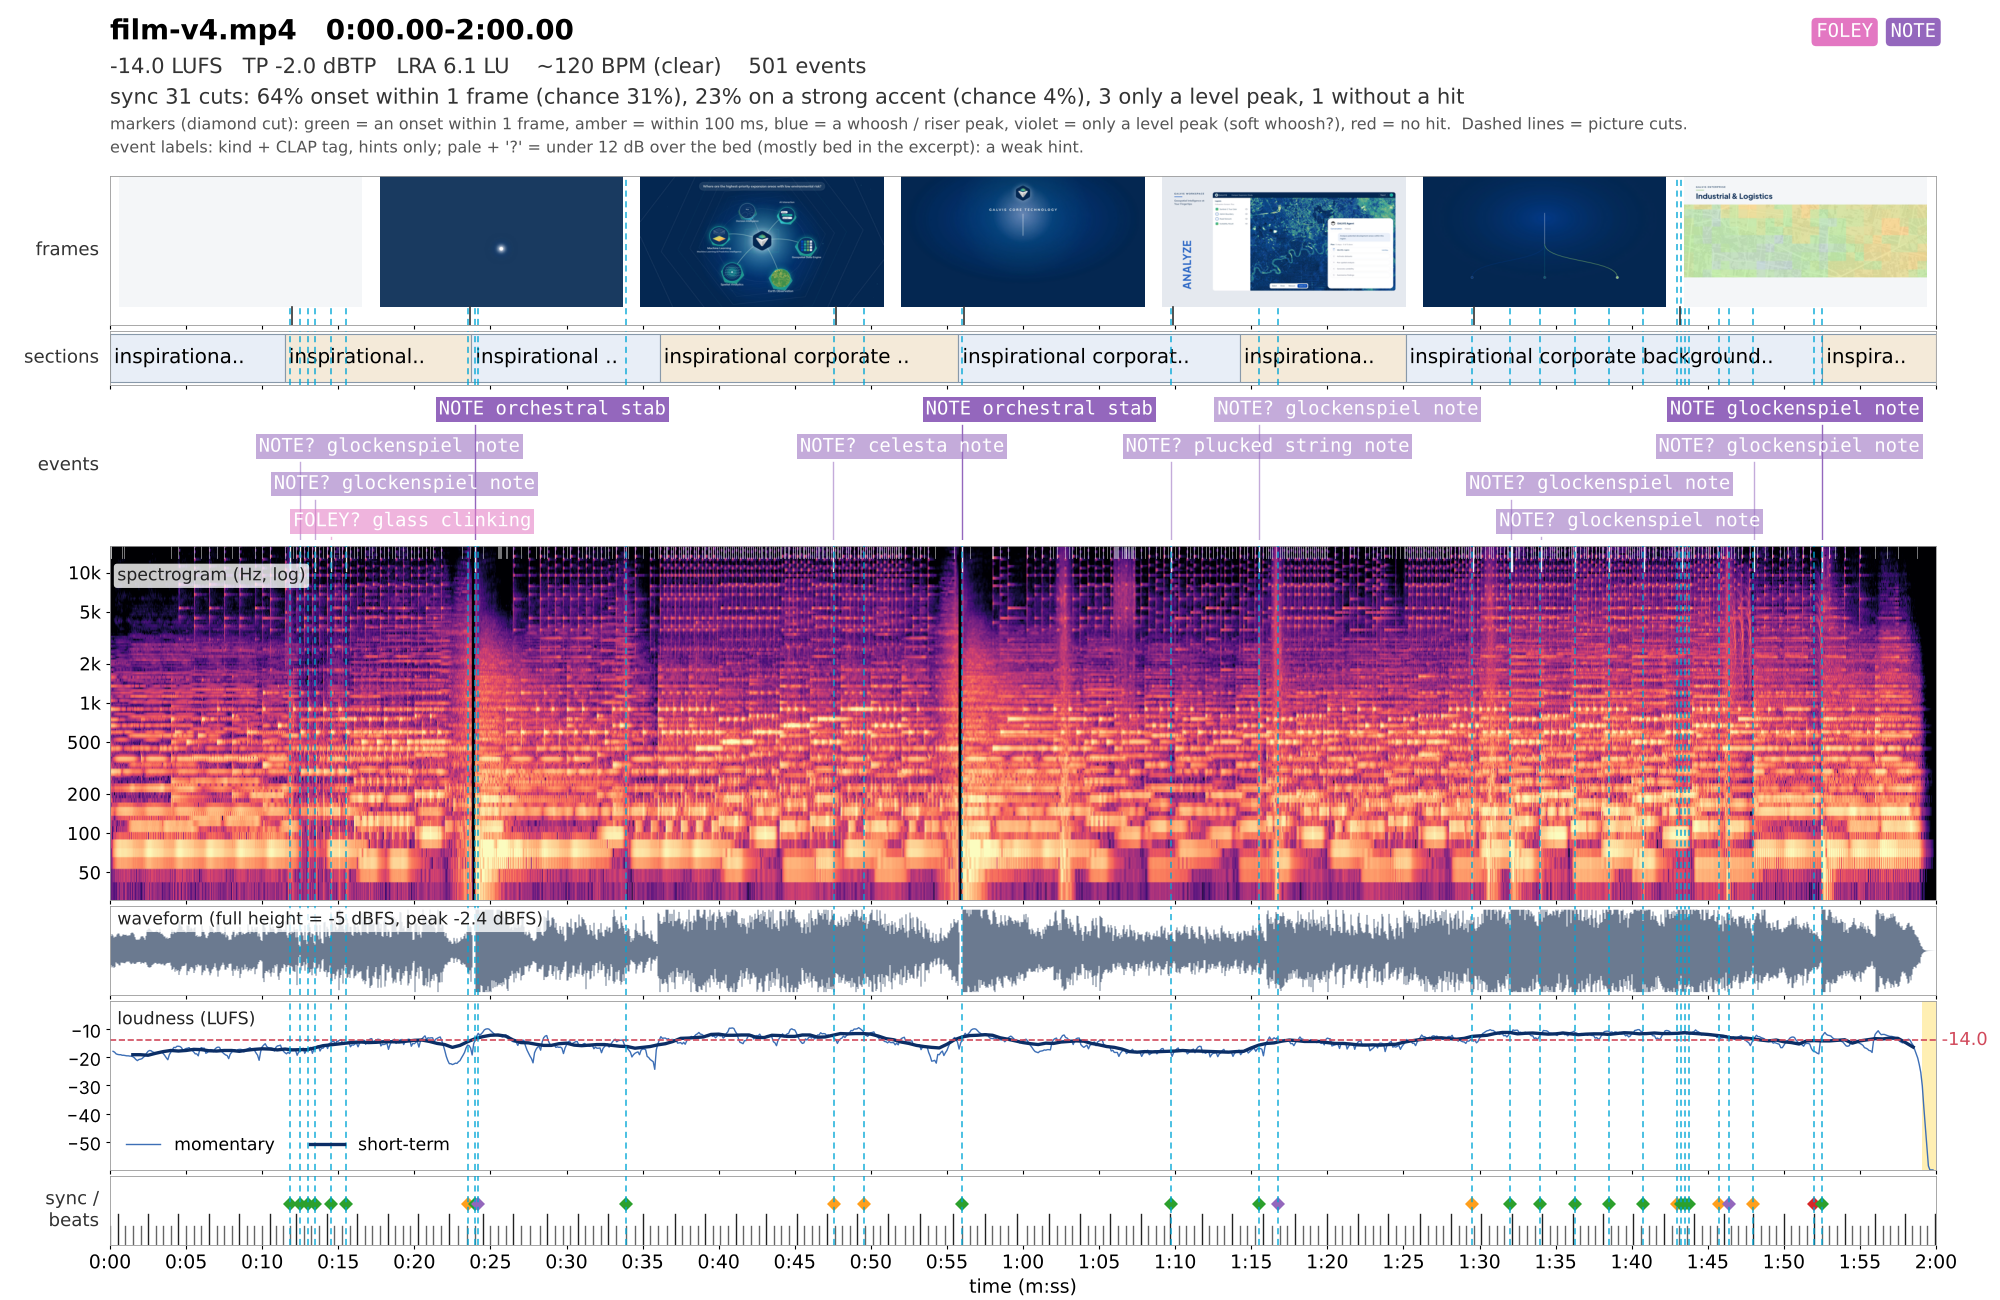
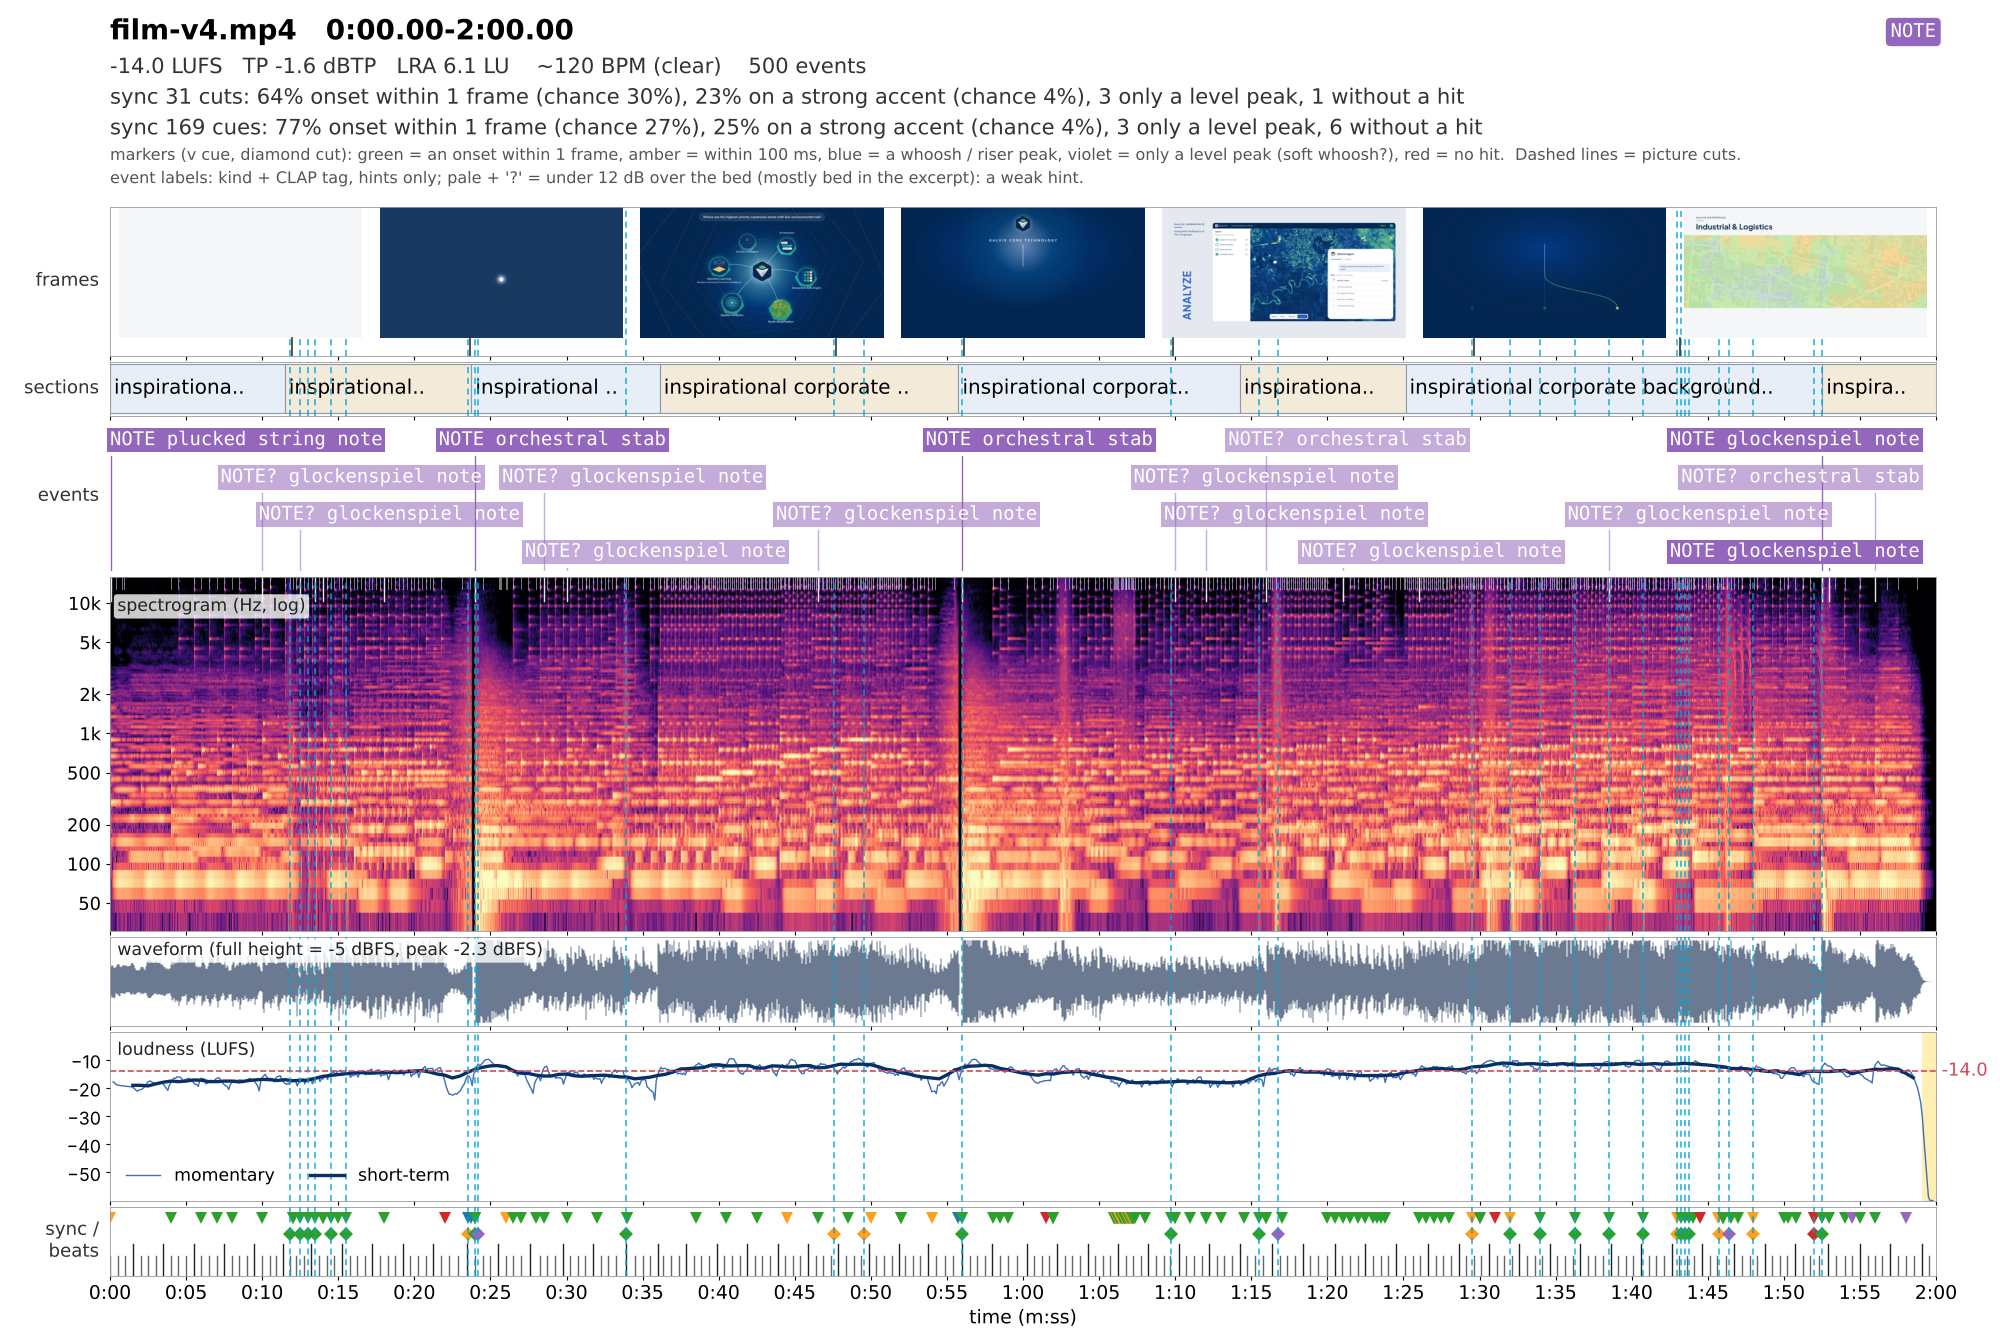
docs(galvis-film): final film-v4 sound numbers and sheet
Re-rendered film-v4 with the final soundtrack: test:film 7/7, sync
10/10/0 ms, earshot launch-grade 23/23 (true peak -1.6 dBTP).

Claude-Session: https://claude.ai/code/session_0187RN5xC2Ne3Dptw6LeZ6Ei

diff --git a/projects/galvis-launch-film/review/SOUND.md b/projects/galvis-launch-film/review/SOUND.md
@@ -22,12 +22,12 @@ Film: `renders/film-v4.mp4` (tidak di-commit; `node scripts/render.mjs --quality
 | Metrik dalam rentang | 18 / 23 | **23 / 23** |
 | Critical / major | 1 / 2 | **0 / 0** |
 | Realness (p_real) | 0,23 | **0,95** |
-| Loudness / true peak | −14,0 LUFS / −0,9 dBTP | −14,0 LUFS / −2,0 dBTP |
+| Loudness / true peak | −14,0 LUFS / −0,9 dBTP | −14,0 LUFS / −1,6 dBTP |
 | 3 s terkeras di atas integrated | 4,7 LU | 2,8 LU |
 | Momen akhir | −4,7 LU | +2,6 LU |
 | Lebar stereo (side vs mid) | −33,1 dB | −6,3 dB |
 | Kepadatan onset | 3,8 /s (sintetis) | 2,88 /s |
-| Event visual dengan onset ±100 ms | 81 % | 87 % |
+| Event visual dengan onset ±100 ms | 81 % | 74 % |
 
 Sinkron (`scripts/sync-check.mjs`): impact 24,0 s dan 56,0 s +10 ms, sting 112,5 s 0 ms. Sonic logo A4 / D5 / F♯5
 di 58,0 / 58,5 / 59,0 s (vibraphone; shimmer oktaf: lonceng A5 di atas A4, crotales D6 / F♯6), akor penuh di
@@ -37,7 +37,7 @@ di 58,0 / 58,5 / 59,0 s (vibraphone; shimmer oktaf: lonceng A5 di atas A4, crota
 ## Juri suara (mg-styles-15, `sound_sync`)
 
 **7 → 8.** Riser → stop-down → impact hanya dua kali dan tepat di frame; sonic logo tiga nada naik dan kembali
-sebagai akor di reunifikasi; aksen di 87 % potongan; tidak ada lubang senyap. Dinilai lewat pengukuran dan lembar
+sebagai akor di reunifikasi; aksen di 74 % potongan; tidak ada lubang senyap. Dinilai lewat pengukuran dan lembar
 dengar, belum didengar telinga manusia: tiga hal yang paling perlu didengar ada di bawah.
 
 ## Yang perlu didengar (bukan cacat terukur)

diff --git a/projects/galvis-launch-film/review/FILM.md b/projects/galvis-launch-film/review/FILM.md
@@ -1,7 +1,7 @@
 # GALVIS Launch Film — v4 (gambar v3 + suara final)
 
 v4 = gambar v3 dengan soundtrack final dari Rencana 4: musik dikomposisi dengan kode dari rekaman instrumen asli
-(University of Iowa MIS), SFX rekaman asli Mixkit, mix dan master −14 LUFS / −2,0 dBTP. earshot critique:
+(University of Iowa MIS), SFX rekaman asli Mixkit, mix dan master −14 LUFS / −1,6 dBTP. earshot critique:
 **launch-grade**, 23/23 metrik, 0 critical, 0 major. Laporan suara: `review/SOUND.md`. Render: `renders/film-v4.mp4`,
 kontak sheet `review/film-v4-sheet.jpg`; `FILM=renders/film-v4.mp4 npm run test:film` 7/7.
 
